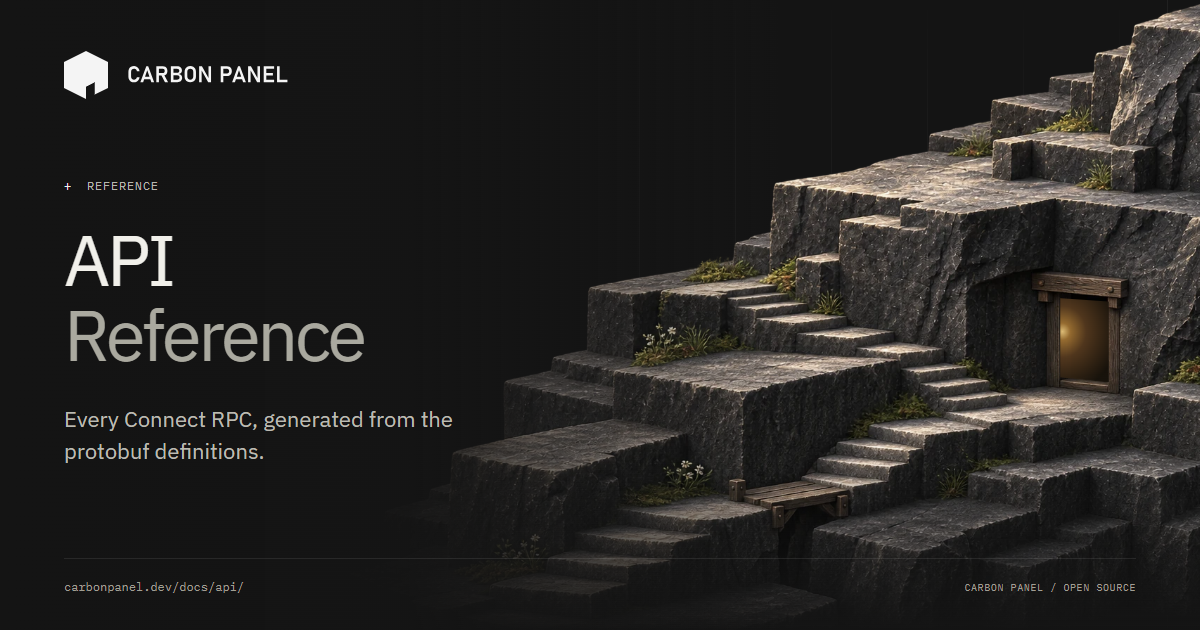
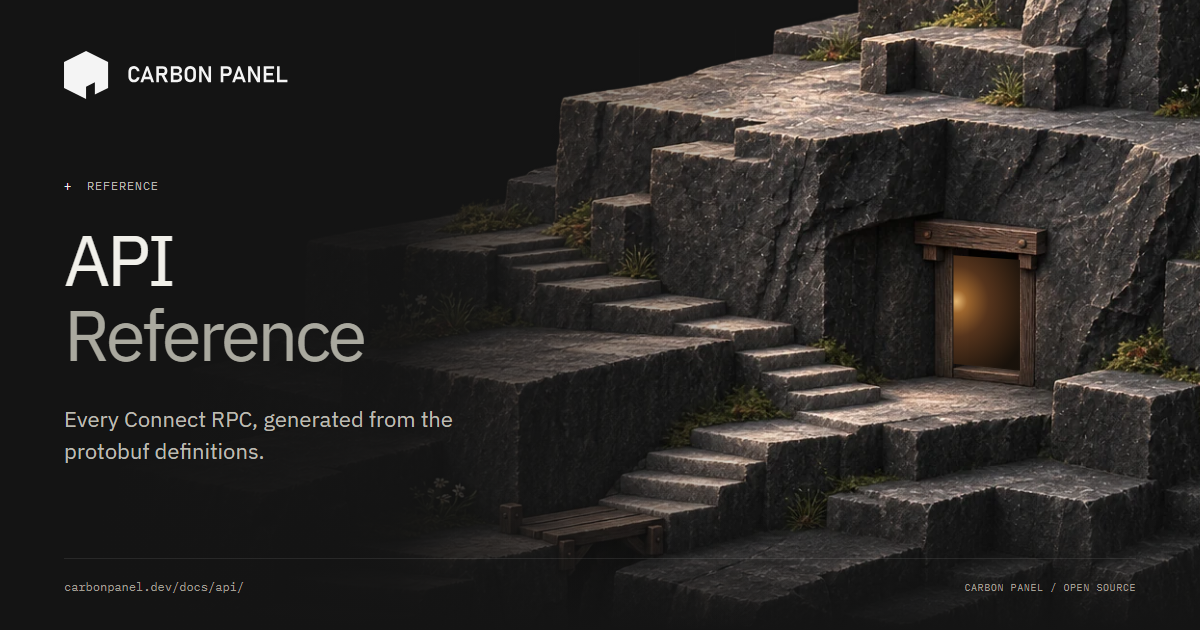
Tighten the terrain crop across Carbon Panel previews

Changed region(s): [[0.37, 0.0, 1.0, 0.9651], [0.925, 0.8746, 0.9867, 0.9349]]

diff --git a/docs/design-system/index.html b/docs/design-system/index.html
@@ -14,7 +14,7 @@
 		<meta property="og:title" content="Carbon design system | Carbon Panel" />
 		<meta property="og:description" content="The shared design language for Carbon Panel and Carbon Cloud: color, type, spacing, elevation, motion, components and patterns." />
 		<meta property="og:url" content="https://carbonpanel.dev/design-system/" />
-		<meta property="og:image" content="https://carbonpanel.dev/assets/og-design-system.png?v=20261113-2" />
+		<meta property="og:image" content="https://carbonpanel.dev/assets/og-design-system.png?v=20261118" />
 		<meta property="og:image:type" content="image/png" />
 		<meta property="og:image:width" content="1200" />
 		<meta property="og:image:height" content="630" />
@@ -22,7 +22,7 @@
 		<meta name="twitter:card" content="summary_large_image" />
 		<meta name="twitter:title" content="Carbon design system | Carbon Panel" />
 		<meta name="twitter:description" content="The shared design language for Carbon Panel and Carbon Cloud: color, type, spacing, elevation, motion, components and patterns." />
-		<meta name="twitter:image" content="https://carbonpanel.dev/assets/og-design-system.png?v=20261113-2" />
+		<meta name="twitter:image" content="https://carbonpanel.dev/assets/og-design-system.png?v=20261118" />
 		<meta name="twitter:image:alt" content="Carbon Design System. Foundations, components and patterns shared by Carbon Panel and Carbon Cloud." />
 		<script type="application/ld+json">
 			{
@@ -35,7 +35,7 @@
 				"inLanguage": "en",
 				"primaryImageOfPage": {
 					"@type": "ImageObject",
-					"url": "https://carbonpanel.dev/assets/og-design-system.png?v=20261113-2",
+					"url": "https://carbonpanel.dev/assets/og-design-system.png?v=20261118",
 					"width": 1200,
 					"height": 630
 				}

diff --git a/assets/branding/social-preview.html b/assets/branding/social-preview.html
@@ -22,10 +22,10 @@
       .subtitle { margin: 27px 0 0; font-size: 23px; line-height: 1.45; color: #bdbbb2; max-width: 560px; }
       .document h1 { font-size: 72px; letter-spacing: -.045em; }
       .document .subtitle { margin-top: 30px; max-width: 515px; font-size: 22px; }
-      .world { position: absolute; width: 1080px; aspect-ratio: 3 / 2; right: -208px; top: -15px; z-index: -2; }
+      .world { position: absolute; width: 1480px; aspect-ratio: 3 / 2; right: -230px; top: -174px; z-index: -2; }
       .world img { display: block; width: 100%; height: auto; }
       .entrance { position: absolute; left: 67.8%; top: 43.5%; width: 4.5%; height: 11.7%; clip-path: polygon(0 0, 100% 4%, 100% 100%, 0 94%); background: radial-gradient(ellipse at 5% 40%, #f2c27a, #a76c30 12%, #5b371e 36%, #19120b 85%); opacity: .94; }
-      .veil { position: absolute; inset: 0; background: linear-gradient(90deg, #141414 0%, #141414f5 34%, #14141480 49%, transparent 65%), linear-gradient(0deg, #141414 0%, transparent 27%); z-index: -1; }
+      .veil { position: absolute; inset: 0; background: linear-gradient(90deg, #141414 8%, #141414f5 33%, #141414a8 44%, transparent 66%), linear-gradient(0deg, #141414 0%, transparent 23%); z-index: -1; }
       footer { position: absolute; left: 64px; right: 64px; bottom: 34px; display: flex; justify-content: space-between; align-items: center; border-top: 1px solid #ffffff16; padding-top: 19px; font: 12px/1.5 "IBM Plex Mono", monospace; color: #a19f94; }
       .footer-label { font-size: 10px; letter-spacing: .06em; }
     </style>

diff --git a/assets/readme/hero.html b/assets/readme/hero.html
@@ -89,14 +89,14 @@
       .footnote {
         margin: 25px 0 0;
         color: #b8b7b0;
-        font-size: 15px;
+        font-size: 21px;
       }
       .world {
         position: absolute;
-        width: 1080px;
+        width: 1480px;
         aspect-ratio: 3 / 2;
-        right: -192px;
-        top: -108px;
+        right: -230px;
+        top: -262px;
         z-index: -1;
       }
       .world img {
@@ -120,14 +120,17 @@
         );
         opacity: 0.94;
       }
-      .cross {
+      .veil {
         position: absolute;
-        left: 596px;
-        top: 168px;
-        color: #85837b;
-        font:
-          14px "IBM Plex Mono",
-          monospace;
+        inset: 0;
+        z-index: -1;
+        background: linear-gradient(
+          90deg,
+          #141414 8%,
+          #141414f5 33%,
+          #141414a8 44%,
+          transparent 66%
+        );
       }
     </style>
   </head>
@@ -147,11 +150,11 @@
         <h1>Your worlds.<br /><span>Yours to run.</span></h1>
         <p class="footnote">Build a world worth keeping.</p>
       </div>
-      <span class="cross" aria-hidden="true">+</span>
       <div class="world" aria-hidden="true">
         <img src="../../landing/assets/graphite-world.webp" alt="" />
         <div class="entrance"></div>
       </div>
+      <div class="veil" aria-hidden="true"></div>
     </main>
   </body>
 </html>

diff --git a/landing/index.html b/landing/index.html
@@ -48,7 +48,7 @@
     <meta property="og:url" content="https://carbonpanel.dev/" />
     <meta
       property="og:image"
-      content="https://carbonpanel.dev/assets/og.png?v=20261113-2"
+      content="https://carbonpanel.dev/assets/og.png?v=20261118"
     />
     <meta property="og:image:type" content="image/png" />
     <meta property="og:image:width" content="1200" />
@@ -68,7 +68,7 @@
     />
     <meta
       name="twitter:image"
-      content="https://carbonpanel.dev/assets/og.png?v=20261113-2"
+      content="https://carbonpanel.dev/assets/og.png?v=20261118"
     />
     <meta
       name="twitter:image:alt"
@@ -106,7 +106,7 @@
             "inLanguage": "en",
             "primaryImageOfPage": {
               "@type": "ImageObject",
-              "url": "https://carbonpanel.dev/assets/og.png?v=20261113-2",
+              "url": "https://carbonpanel.dev/assets/og.png?v=20261118",
               "width": 1200,
               "height": 630
             }
@@ -123,7 +123,7 @@
             "license": "https://www.mozilla.org/MPL/2.0/",
             "isAccessibleForFree": true,
             "softwareVersion": "v3.0.0-beta.4",
-            "image": "https://carbonpanel.dev/assets/og.png?v=20261113-2"
+            "image": "https://carbonpanel.dev/assets/og.png?v=20261118"
           },
           {
             "@type": "FAQPage",

diff --git a/docs/carbon-panel/public/api-reference.html b/docs/carbon-panel/public/api-reference.html
@@ -13,7 +13,7 @@
   <meta property="og:title" content="Carbon Panel API reference">
   <meta property="og:description" content="Every Connect RPC in Carbon Panel, generated from the protobuf definitions.">
   <meta property="og:url" content="https://carbonpanel.dev/docs/api/">
-  <meta property="og:image" content="https://carbonpanel.dev/assets/og-api.png?v=2">
+  <meta property="og:image" content="https://carbonpanel.dev/assets/og-api.png?v=20261118">
   <meta property="og:image:type" content="image/png">
   <meta property="og:image:width" content="1200">
   <meta property="og:image:height" content="630">
@@ -21,7 +21,7 @@
   <meta name="twitter:card" content="summary_large_image">
   <meta name="twitter:title" content="Carbon Panel API reference">
   <meta name="twitter:description" content="Every Connect RPC in Carbon Panel, generated from the protobuf definitions.">
-  <meta name="twitter:image" content="https://carbonpanel.dev/assets/og-api.png?v=2">
+  <meta name="twitter:image" content="https://carbonpanel.dev/assets/og-api.png?v=20261118">
   <meta name="twitter:image:alt" content="Carbon Panel API reference generated from the protobuf definitions.">
   <script src="https://cdn.jsdelivr.net/npm/@scalar/api-reference@1.76.2"></script>
   <style>

diff --git a/scripts/test_website.py b/scripts/test_website.py
@@ -108,7 +108,7 @@ class WebsiteTests(unittest.TestCase):
             self.assertIn("github.com/athNdev/carbonpanel/blob/main/docs/design-system/README.md", page)
             self.assertNotIn("../../web/carbon-panel/", page)
             self.assertIn('property="og:image"', page)
-            self.assertIn('content="https://carbonpanel.dev/assets/og-design-system.png?v=20261113-2"', page)
+            self.assertIn('content="https://carbonpanel.dev/assets/og-design-system.png?v=20261118"', page)
             self.assertEqual(
                 (design / "tokens.css").read_bytes(),
                 (root / "web/carbon-panel/src/lib/design-system/tokens.css").read_bytes())

diff --git a/knowledge/decisions/website-docs.md b/knowledge/decisions/website-docs.md
@@ -76,7 +76,8 @@ sources:
   deployment date as `lastmod`; utility pages with `noindex` are excluded.
   Website validation rejects missing or incomplete output.
 - Current social cards are rendered from `assets/branding/social-preview.html`
-  with the approved logo, homepage terrain and Plex fonts. The website uses
+  with the approved logo, homepage terrain and Plex fonts. The crop centers
+  the lit doorway and nearby terraces so they read at thumbnail size. The website uses
   1200 by 630 PNGs; GitHub has a separate 1280 by 640 repository PNG and an
   independent upload setting. Regeneration must not alter the approved logo.
 

diff --git a/README.md b/README.md
@@ -9,7 +9,7 @@ one at https://mozilla.org/MPL/2.0/.
 -->
 
 <div align="center">
-  <img src="https://raw.githubusercontent.com/athNdev/carbonpanel/main/assets/readme/hero.png" alt="Carbon Panel. Your worlds. Yours to run." width="100%" />
+  <img src="https://raw.githubusercontent.com/athNdev/carbonpanel/main/assets/readme/hero.png?v=20261118" alt="Carbon Panel. Your worlds. Yours to run." width="100%" />
 
   <p><strong>A home for the worlds you make.</strong></p>
   <p>Build your modpacks, look after your servers, and keep every block on your own terms.<br />
